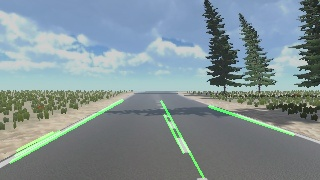
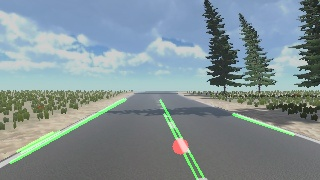
Added the red circle

diff --git a/main.py b/main.py
@@ -11,8 +11,8 @@ CANNY_HIGH = 200
 
 HOUGH_RHO = 1
 HOUGH_THETA = np.pi / 180
-HOUGH_THRESHOLD = 18
-HOUGH_MIN_LINE_LENGTH = 20
+HOUGH_THRESHOLD = 22
+HOUGH_MIN_LINE_LENGTH = 21
 HOUGH_MAX_LINE_GAP = 30
 
 # =============================
@@ -55,9 +55,16 @@ def filter_lines(lines):
 
 def draw_lane_lines(image, segments):
     line_image = np.zeros_like(image)
+    width = image.shape[1]
 
     for (x1, y1, x2, y2) in segments:
         cv2.line(line_image, (x1, y1), (x2, y2), (0, 255, 0), 2)
+
+    # Find the segment whose midpoint is closest to the horizontal center of the image
+    center_segment = min(segments, key=lambda s: abs((s[0] + s[2]) // 2 - width // 2))
+    cx = (center_segment[0] + center_segment[2]) // 2
+    cy = (center_segment[1] + center_segment[3]) // 2
+    cv2.circle(line_image, (cx, cy), 8, (0, 0, 255), -1)
 
     combined = cv2.addWeighted(image, 0.8, line_image, 1, 1)
     return combined
